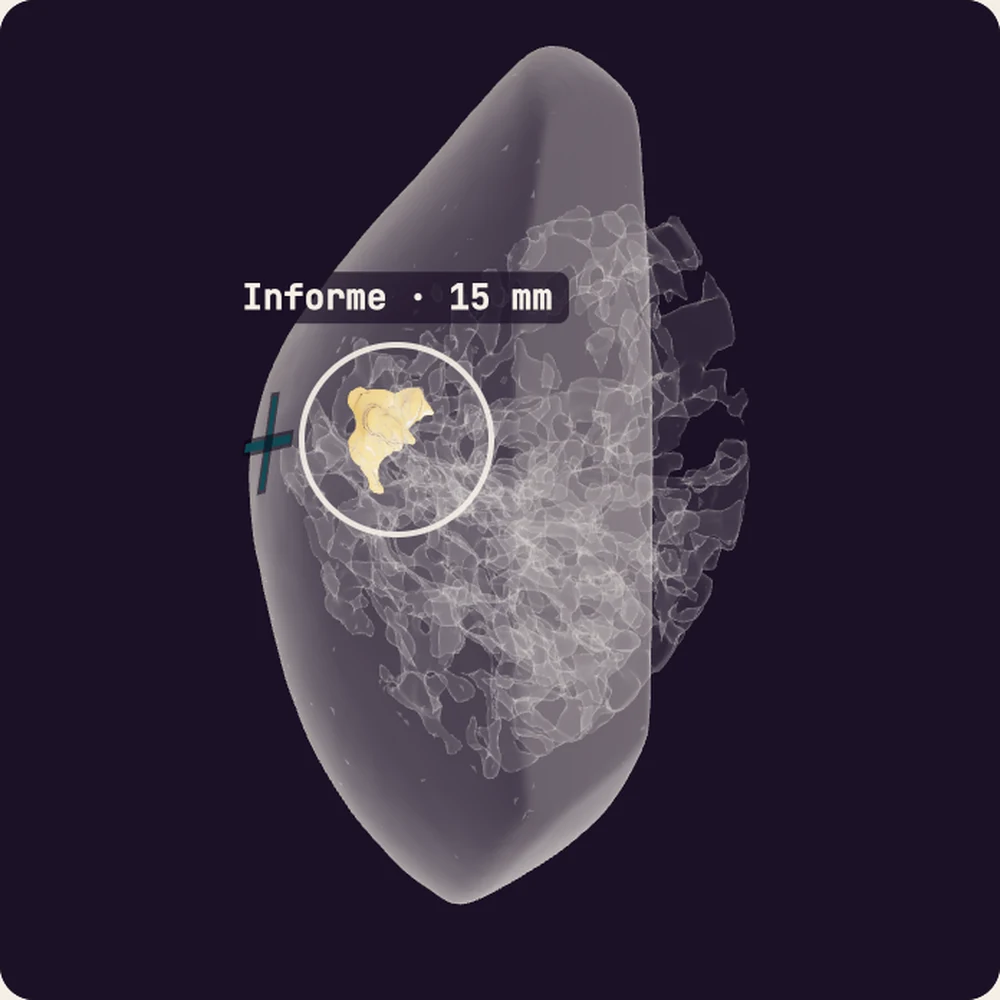
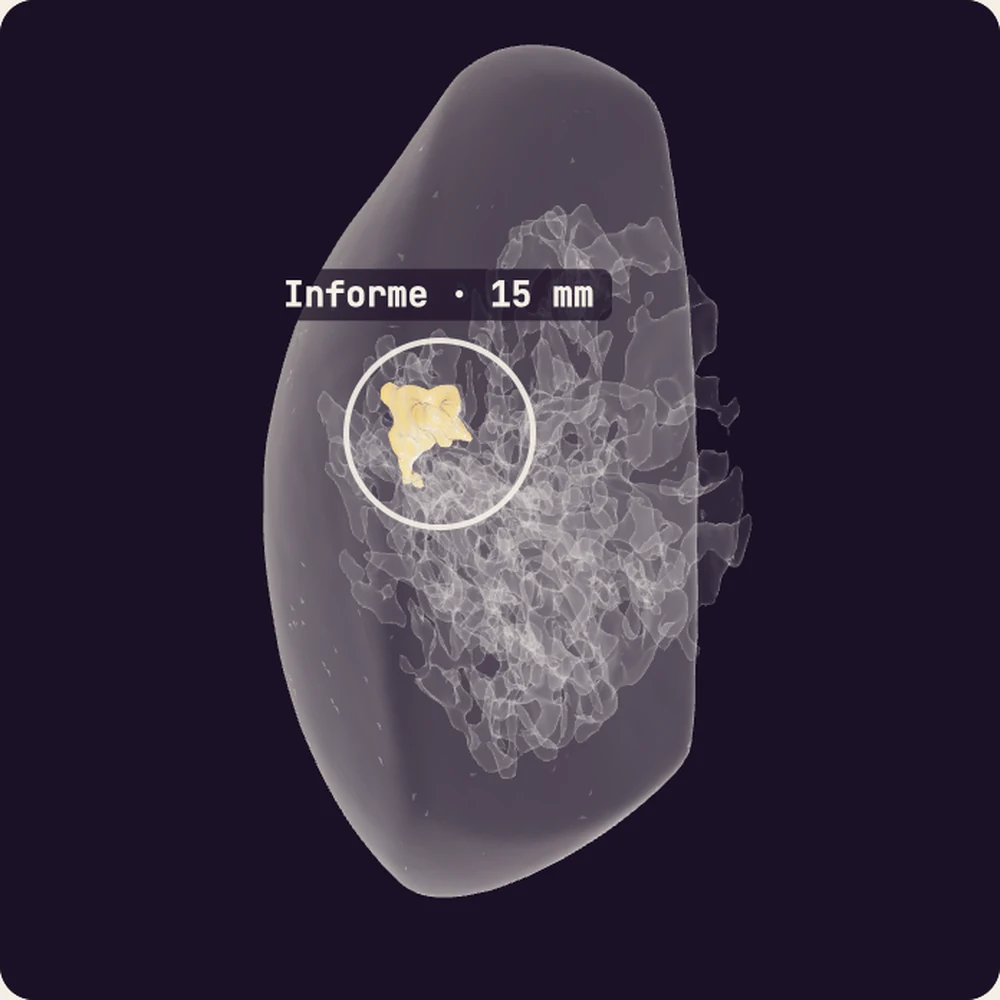
fix(lesiones): fuera la cruz del pezón
Miriam, viéndola en la preview: «la cruz molesta, quítala». Y es su pieza. La quité entera, no
solo la escondí: fuera el grupo 3D, fuera la referencia que llegaba en escena.json, fuera su
línea de leyenda y fuera su mención en la descripción para lectores de pantalla, que si no
prometería algo que ya no está.

La posición del pezón se sigue calculando en Polaris (es lo que recorta el contorno y lo que
sitúa el cuadrante del tumor), simplemente ya no se dibuja.

Changed region(s): [[0.248, 0.031, 0.775, 0.93], [0.31, 0.744, 0.341, 0.806], [0.279, 0.713, 0.31, 0.744]]

diff --git a/app/components/BreastView.client.vue b/app/components/BreastView.client.vue
@@ -12,6 +12,8 @@
  * rótulo, misma interacción (arrastrar = girar, rueda = acercar, botón de reencuadre, gira solo
  * hasta que se toca y nunca con prefers-reduced-motion). Si WebGL falla, queda la imagen fija.
  *
+ * El pezón no se marca: Miriam lo probó en la preview y estorbaba más de lo que orientaba.
+ *
  * Diferencia de encuadre: un tumor de 15 mm es un punto al lado de un hígado, así que la cámara
  * arranca MIRANDO HACIA ÉL (azimut calculado desde el centro del tejido hacia la lesión), no en
  * una posición fija. Así se ve desde el primer fotograma, sin esperar a que gire.
@@ -30,13 +32,12 @@ const lang = computed<'es' | 'en'>(() => (locale.value === 'en' ? 'en' : 'es'))
 const L = (es: string, en: string) => (lang.value === 'en' ? en : es)
 
 interface Lesion { malla: string; diametro_auto_mm: number | null; diana: string | null; mm_informe: number | null }
-interface Escena { mallas: Record<string, string>; lesiones: Lesion[]; referencias?: Record<string, number[]> }
+interface Escena { mallas: Record<string, string>; lesiones: Lesion[] }
 
 const host = ref<HTMLDivElement | null>(null)
 const loading = ref(true)
 const failed = ref(false)
 const rotulos = ref<{ texto: string; x: number; y: number; r: number; tx: number; ty: number; visible: boolean }[]>([])
-let pezon3: THREE.Vector3 | null = null
 const autoMm = ref<number | null>(null)
 const hayVasos = ref(false)
 
@@ -184,49 +185,11 @@ async function init() {
       if (les.diametro_auto_mm) autoMm.value = les.diametro_auto_mm
     }))
   }
-  const rp = esc.referencias?.pezon
-  if (rp && rp.length === 3) {
-    pezon3 = new THREE.Vector3(rp[0]!, rp[1]!, rp[2]!).applyMatrix4(RAS_A_THREE)
-  }
   hayVasos.value = !!esc.mallas.vasos
   if (esc.mallas.vasos) {
     tareas.push(geo(props.base + esc.mallas.vasos).then((g) => malla(g, vasoMat(), 2)))
   }
   const gt = await geo(props.base + esc.mallas.fgt!)
-  const marcaPezon = () => {
-    // La areola, marcada SOBRE la superficie: un aro fino pegado al contorno, orientado por la
-    // normal de la mama en ese punto. Gira con la pieza, así que se lee como parte de la
-    // anatomía y no como una chincheta encima de la pantalla. Es un marcador de atlas: dice
-    // dónde está el pezón sin dibujar relieve ninguno.
-    if (!pezon3) return
-    const fuera = pezon3.clone().multiplyScalar(2)
-    // Una CRUZ, no un círculo ni un aro: la lesión está a 22 mm y ya lleva su anillo, así que
-    // cualquier cosa redonda aquí se confunde con ella (Miriam lo vio antes que yo). La cruz es
-    // una marca distinta a simple vista, y va SOBRE la superficie, orientada por la normal de la
-    // mama en ese punto, de modo que gira con la pieza en vez de flotar pegada a la pantalla.
-    // El color NO es el blanco del anillo de la lesión, y eso importa: el comité lo giró en vivo
-    // y con el tumor cerca del pezón (que es el caso) la cruz y el anillo acababan leyéndose
-    // como una sola cosa, que es justo el problema que hizo descartar el círculo. Va en el
-    // turquesa del sistema, que en esta página solo se usa para señalar, nunca para anatomía, y
-    // con un reborde oscuro para que se despegue también del contorno claro de la mama.
-    const grupo = new THREE.Group()
-    const borde = new THREE.MeshBasicMaterial({ color: 0x1c1126, transparent: true,
-      opacity: 0.55, side: THREE.DoubleSide, depthWrite: false })
-    const tinta = new THREE.MeshBasicMaterial({ color: 0x1c969e, transparent: true,
-      opacity: 0.95, side: THREE.DoubleSide, depthWrite: false })
-    for (const giro of [0, Math.PI / 2]) {
-      const sombra = new THREE.Mesh(new THREE.PlaneGeometry(18.6, 3.2), borde)
-      sombra.rotation.z = giro
-      grupo.add(sombra)
-      const barra = new THREE.Mesh(new THREE.PlaneGeometry(17, 1.6), tinta)
-      barra.rotation.z = giro
-      barra.position.z = 0.01
-      grupo.add(barra)
-    }
-    grupo.position.copy(pezon3); grupo.lookAt(fuera); grupo.renderOrder = 7
-    grupo.traverse((o) => { (o as THREE.Mesh).renderOrder = 7 })
-    scene.add(grupo)
-  }
   malla(gt, tejidoMat(THREE.BackSide), 3)   // caras de detrás primero…
   malla(gt, tejidoMat(THREE.FrontSide), 4)  // …y las de delante encima
   let ge: THREE.BufferGeometry | null = null
@@ -235,7 +198,6 @@ async function init() {
     malla(ge, envolturaMat(THREE.BackSide), 5)
     malla(ge, envolturaMat(THREE.FrontSide), 6)
   }
-  marcaPezon()
   await Promise.all(tareas)
   // Se encuadra con la pieza MÁS GRANDE que haya: con envoltura se ve la mama entera y la
   // lesión situada dentro; sin ella, el árbol glandular llena el cuadro.
@@ -284,7 +246,7 @@ onBeforeUnmount(() => {
         v-else
         ref="host"
         role="img"
-        :aria-label="L('Reconstrucción en 3D de la mama derecha de Miriam, girable. Se ve el contorno de la mama en translúcido; dentro, el tejido fibroglandular como un árbol; y el tumor primario en dorado, rodeado por un anillo con la medida del informe, 15 milímetros, en el cuadrante superoexterno. Una cruz sobre la superficie marca dónde está el pezón. Arrástralo para girar; todas las cifras están escritas debajo.', 'Rotatable 3D reconstruction of Miriam’s right breast. You can see the outline of the breast in translucent form; inside it, the fibroglandular tissue like a tree; and the primary tumour in gold, ringed and labelled with the figure from the report, 15 millimetres, in the upper outer quadrant. A cross on the surface marks where the nipple is. Drag to rotate; all the figures are written below.')"
+        :aria-label="L('Reconstrucción en 3D de la mama derecha de Miriam, girable. Se ve el contorno de la mama en translúcido; dentro, el tejido fibroglandular como un árbol; y el tumor primario en dorado, rodeado por un anillo con la medida del informe, 15 milímetros, en el cuadrante superoexterno. Arrástralo para girar; todas las cifras están escritas debajo.', 'Rotatable 3D reconstruction of Miriam’s right breast. You can see the outline of the breast in translucent form; inside it, the fibroglandular tissue like a tree; and the primary tumour in gold, ringed and labelled with the figure from the report, 15 millimetres, in the upper outer quadrant. Drag to rotate; all the figures are written below.')"
         class="absolute inset-0 cursor-grab active:cursor-grabbing"
       />
       <div v-if="!loading && !failed" class="absolute inset-0 pointer-events-none" aria-hidden="true">
@@ -329,10 +291,6 @@ onBeforeUnmount(() => {
       <li v-if="hayVasos" class="flex items-start gap-1.5">
         <span class="inline-block w-2.5 h-2.5 mt-[3px] shrink-0 rounded-full" style="background:#2d63d6" aria-hidden="true" />
         {{ L('Vasos de la mama, los que le llevan la sangre (y el contraste) al tumor', 'Vessels of the breast, the ones carrying blood (and contrast) to the tumour') }}
-      </li>
-      <li class="flex items-start gap-1.5">
-        <span class="inline-block w-2.5 h-2.5 mt-[2px] shrink-0 text-[13px] leading-none text-center" style="color:#1c969e" aria-hidden="true">+</span>
-        {{ L('La cruz marca el pezón, que es la referencia para orientarse en una mama; su relieve no está en el modelo', 'The cross marks the nipple, the reference point for orienting yourself on a breast; its relief is not in the model') }}
       </li>
     </ul>
     <p v-if="!loading && !failed" class="mt-1.5 text-[11px] text-tinta leading-snug">
